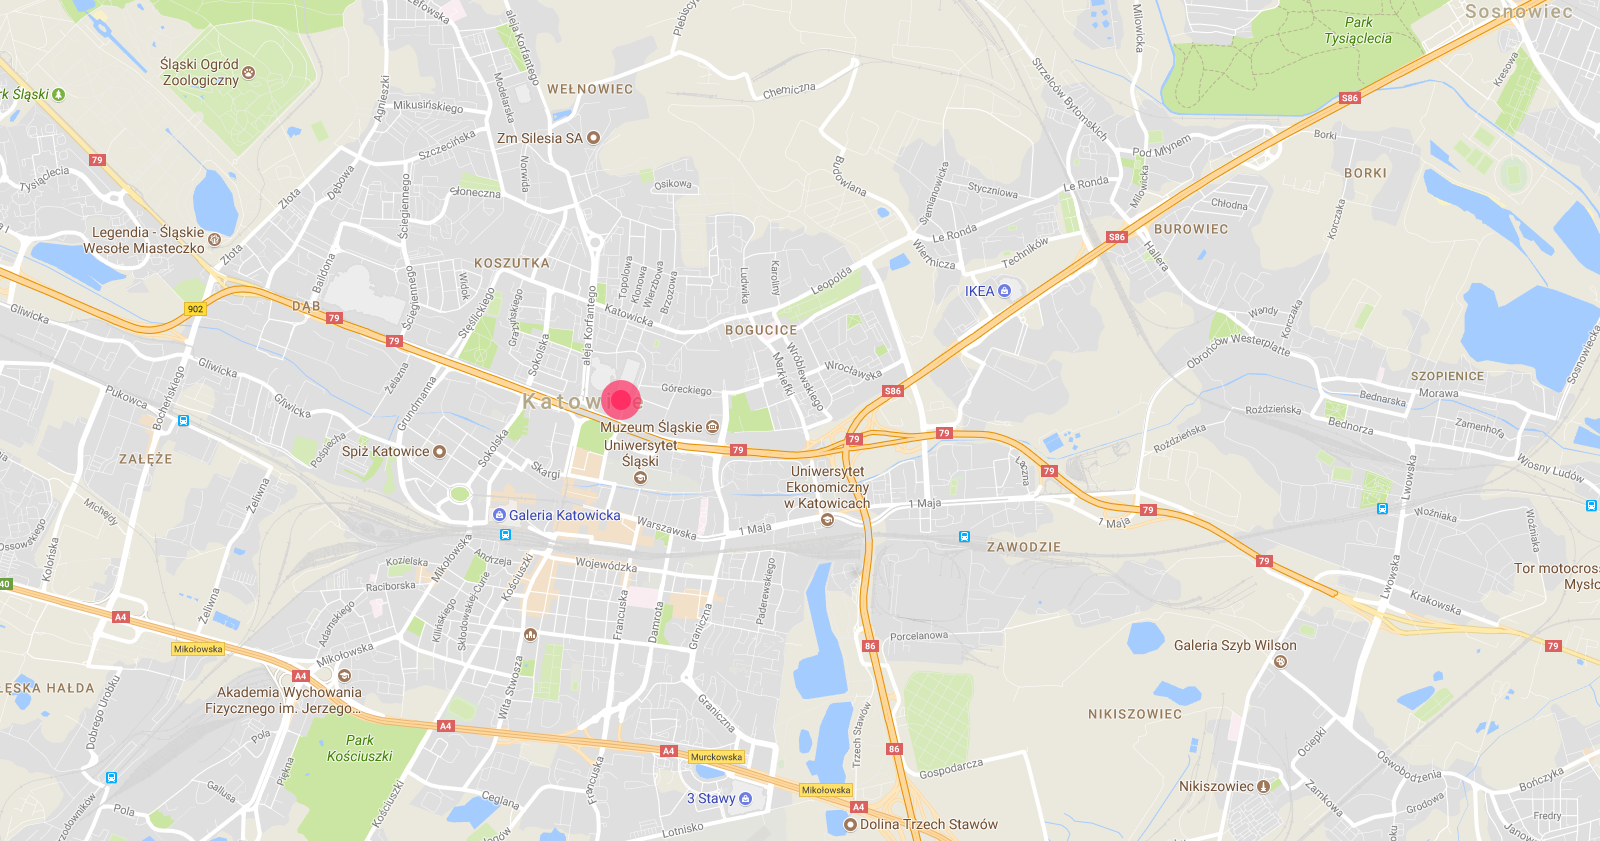
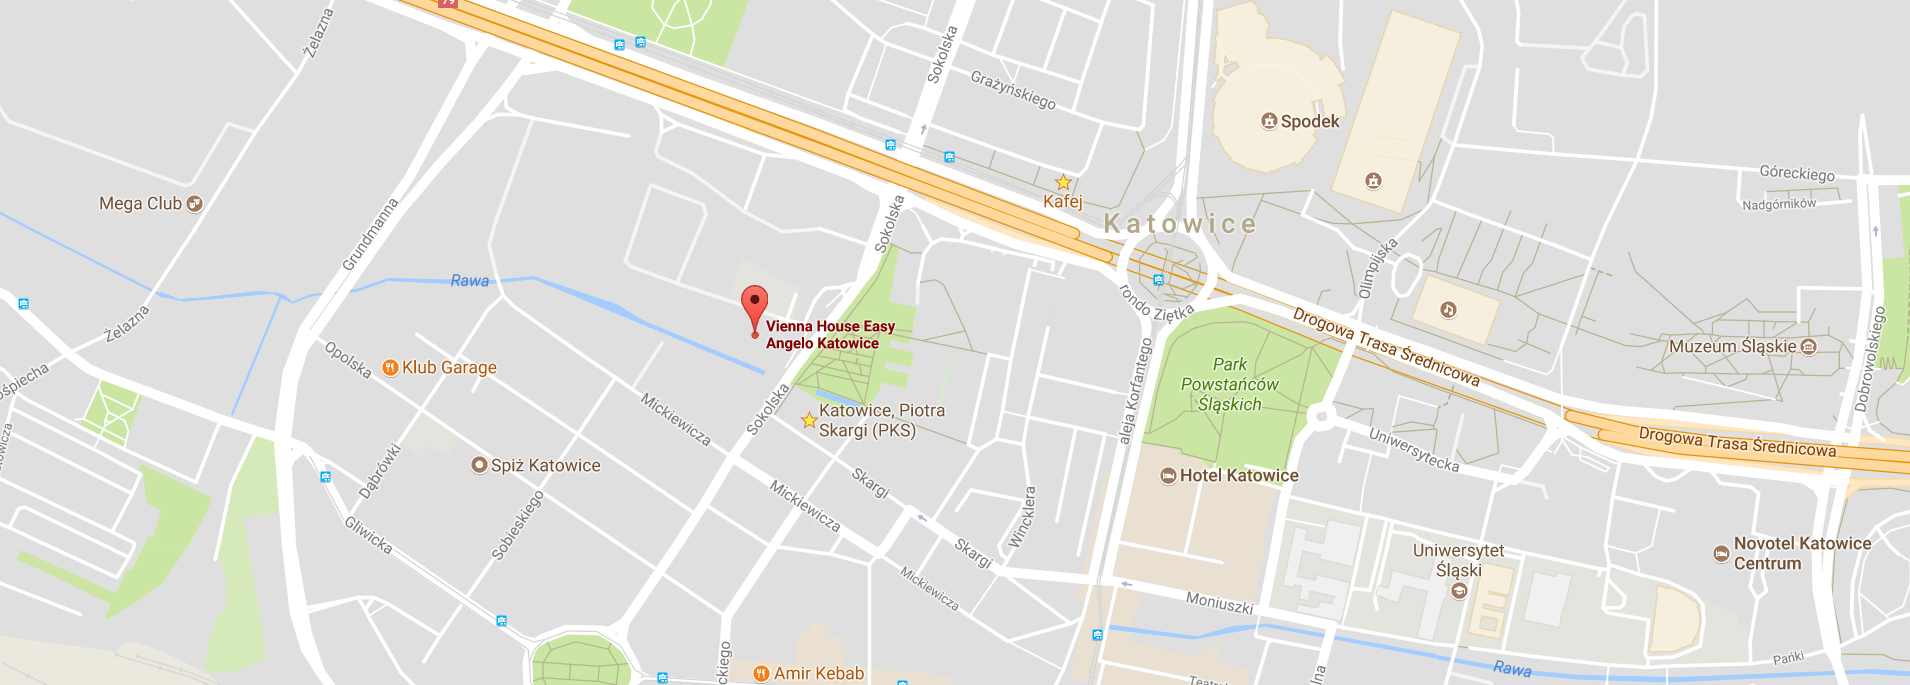
Update website

diff --git a/index.html b/index.html
@@ -48,6 +48,7 @@
                             <li><a href="#about">About</a></li>
                             <li><a href="#speaker">Speaker</a></li>
                             <li><a href="#agenda">Agenda</a></li>
+                            <li><a href="#contact">Contact</a></li>
                             <li><a href="#register" class="register">Register</a></li>
                         </ul>
                     </div>
@@ -127,9 +128,7 @@
                     worldwide.
                 </p>
                 <p>
-                    If you want to visit great city known from gingerbread and Nicolaus Copernicus and meet more that
-                    128 IT
-                    specialists just book June 24th 2017 for yourself and stay tuned for more details.
+                    If you want to visit great city right in the heart of industrial Poland and meet more that 100 IT specialists, just book September 16th 2017 for yourself and stay tuned for more details.
                 </p>
             </div>
         </div>
@@ -181,53 +180,31 @@
         <div class="row">
             <div class="col-md-12 wrapper">
                 <div class="person">
-                    <img src="images/team-face1.png"/>
-                    <span class="name">Roy Hernandez</span>
-                    <span class="description">Ceo silesia jug day</span>
+                    <img class="rounded" src="images/team-face1.jpg"/>
+                    <span class="name">Marcin Świerczyński</span>
                     <div class="social">
-                        <a href="#">
+                        <a href="https://www.facebook.com/marcin.swierczynski">
                             <img src="images/icon-facebook.png"/>
                         </a>
-                        <a href="#">
+                        <a href="https://twitter.com/marcinos85">
                             <img src="images/icon-twitter.png"/>
                         </a>
                     </div>
                 </div>
                 <div class="person">
-                    <img src="images/team-face2.png"/>
-                    <span class="name">Bill Gill</span>
-                    <span class="description">CTO</span>
+                    <img class="rounded" src="images/team-face2.jpg"/>
+                    <span class="name">Aleksandra Chruściel</span>
                     <div class="social">
-                        <a href="#">
+                        <a href="https://www.facebook.com/alexandra.chrusciel">
                             <img src="images/icon-facebook.png"/>
-                        </a>
-                        <a href="#">
-                            <img src="images/icon-twitter.png"/>
                         </a>
                     </div>
                 </div>
                 <div class="person">
-                    <img src="images/team-face3.png"/>
-                    <span class="name">Cora Erickson</span>
-                    <span class="description">Marketing</span>
+                    <img class="rounded" src="images/team-face3.png"/>
+                    <span class="name">Grzegorz Gajos</span>
                     <div class="social">
-                        <a href="#">
-                            <img src="images/icon-facebook.png"/>
-                        </a>
-                        <a href="#">
-                            <img src="images/icon-twitter.png"/>
-                        </a>
-                    </div>
-                </div>
-                <div class="person">
-                    <img src="images/team-face4.png"/>
-                    <span class="name">Tom Johnston</span>
-                    <span class="description">Social media</span>
-                    <div class="social">
-                        <a href="#">
-                            <img src="images/icon-facebook.png"/>
-                        </a>
-                        <a href="#">
+                        <a href="https://twitter.com/ggajos">
                             <img src="images/icon-twitter.png"/>
                         </a>
                     </div>
@@ -261,7 +238,7 @@
         </div>
         <div class="row">
             <div class="col-md-4">
-                <img src="images/face-special-guest.png"/>
+                <img src="images/face-special-guest.jpg"/>
                 <div class="social">
                     <a href="#">
                         <img src="images/icon-facebook.png"/>
@@ -398,7 +375,7 @@
             <img src="images/logo-silesia-joinusnow.png"/>
         </div>
         <div class="row">
-            <a href="#" class="btn btn-default">Register now</a>
+            <a href="https://www.meetup.com/Silesia-JUG/events/242282603/" class="btn btn-default">Register now</a>
         </div>
     </div>
 </section>
@@ -406,17 +383,28 @@
 <section id="sponsors">
     <div class="container">
         <div class="row">
-            <h2>Sponsors</h2>
+            <h2>These outstanding companies support us</h2>
         </div>
         <div class="row">
             <div class="line">&nbsp;</div>
         </div>
         <div class="row">
-            <span class="description">These outstanding companies support us</span>
+            <span class="description">Gold sponsor</span>
         </div>
         <div class="row">
             <div class="col-md-12">
-                <img src="images/sponsors.png"/>
+                <a href="https://www.jamf.com/" alt="jamf"><img class="gold sponsor" src="images/sponsors/jamfsoftware.png"/></a>
+            </div>
+        </div>
+        <div class="row">
+            <span class="description">Sponsors</span>
+        </div>
+        <div class="row">
+            <div class="col-md-12 wrapper">
+                <a href="http://opentangerine.com/" alt="Open Tangerine"><img class="sponsor" src="images/sponsors/open-tangerine.png"/></a>
+                <a href="https://mestudent.com/" alt="MeStudent"><img class="sponsor" src="images/sponsors/me-student.png"/></a>
+                <a href="http://www.solidsoftware.pl/" alt="Solid Software"><img class="sponsor" src="images/sponsors/solidsoftware.png"/></a>
+                <a href="https://www.upc.pl/" alt="UPC"><img class="sponsor" src="images/sponsors/upc.png"/></a>
             </div>
         </div>
     </div>
@@ -429,7 +417,7 @@
         <img src="images/location-logo-silesia.png" />
         <div class="place">
             <img src="images/icon-place-small.png" />
-            <span>Międzynarodowe Centrum Kongresowe Plac Sławika i Antalla 1, 40-166 Katowice, PL</span>
+            <span>Hotel Angelo, Sokolska 24, 40-086 Katowice</span>
         </div>
         <div class="date">
             <img src="images/icon-data-small.png" />
@@ -450,7 +438,7 @@
             <span class="description">If you have a question, we will be happy to answer them</span>
         </div>
         <div class="row">
-            <a href="#" class="btn btn-default">Send an email</a>
+            <a href="mailto:marcin@swierczynski.net" class="btn btn-default">Send an email</a>
         </div>
         <img src="images/logo-footer-right.png"/>
     </div>

diff --git a/less/core.less b/less/core.less
@@ -22,6 +22,10 @@ img {
     max-width: 100%;
 }
 
+.rounded {
+    border-radius: 50%;
+}
+
 // PRELOADER
 .preloader {
     position: fixed;
@@ -323,6 +327,9 @@ section {
             .person {
                 max-width: 200px;
                 margin: 0 auto;
+                > img {
+                    max-height: 200px;
+                }
                 span {
                     display: block;
                     margin: 5px 0;
@@ -347,8 +354,25 @@ section {
         }
     }
     &#sponsors {
-        img {
+        .wrapper {
+            display: flex;
+            justify-content: space-between;
             margin-top: 50px;
+        }
+        .line {
+            margin-bottom: 50px;
+        }
+        .sponsor {
+            max-height: 100px;
+            margin: 0 auto 50px auto;
+            &.gold {
+                margin-top: 50px;
+            }
+        }
+        .description {
+            color: #fd5761;
+            text-transform: uppercase;
+            font-weight: 500;
         }
     }
     &#contact {

diff --git a/css/core.css b/css/core.css
@@ -16,6 +16,9 @@ body {
 img {
   max-width: 100%;
 }
+.rounded {
+  border-radius: 50%;
+}
 .preloader {
   position: fixed;
   top: 0;
@@ -268,6 +271,9 @@ section#team .wrapper .person {
   max-width: 200px;
   margin: 0 auto;
 }
+section#team .wrapper .person > img {
+  max-height: 200px;
+}
 section#team .wrapper .person span {
   display: block;
   margin: 5px 0;
@@ -286,8 +292,25 @@ section#team .wrapper .person span.description {
 section#team .wrapper .person .social a {
   margin: 0 5px;
 }
-section#sponsors img {
+section#sponsors .wrapper {
+  display: flex;
+  justify-content: space-between;
   margin-top: 50px;
+}
+section#sponsors .line {
+  margin-bottom: 50px;
+}
+section#sponsors .sponsor {
+  max-height: 100px;
+  margin: 0 auto 50px auto;
+}
+section#sponsors .sponsor.gold {
+  margin-top: 50px;
+}
+section#sponsors .description {
+  color: #fd5761;
+  text-transform: uppercase;
+  font-weight: 500;
 }
 section#contact {
   height: inherit !important;

diff --git a/less/responsive.less b/less/responsive.less
@@ -273,4 +273,13 @@ RESPONSIVE FIXES
     .collapse.in .nav > li {
         display: block;
     }
+
+    section#sponsors {
+        .wrapper {
+            display: block;
+        }
+        .sponsor {
+            display: block;
+        }
+    }
 }

diff --git a/css/responsive.css b/css/responsive.css
@@ -216,4 +216,10 @@ RESPONSIVE FIXES
   .collapse.in .nav > li {
     display: block;
   }
+  section#sponsors .wrapper {
+    display: block;
+  }
+  section#sponsors .sponsor {
+    display: block;
+  }
 }
